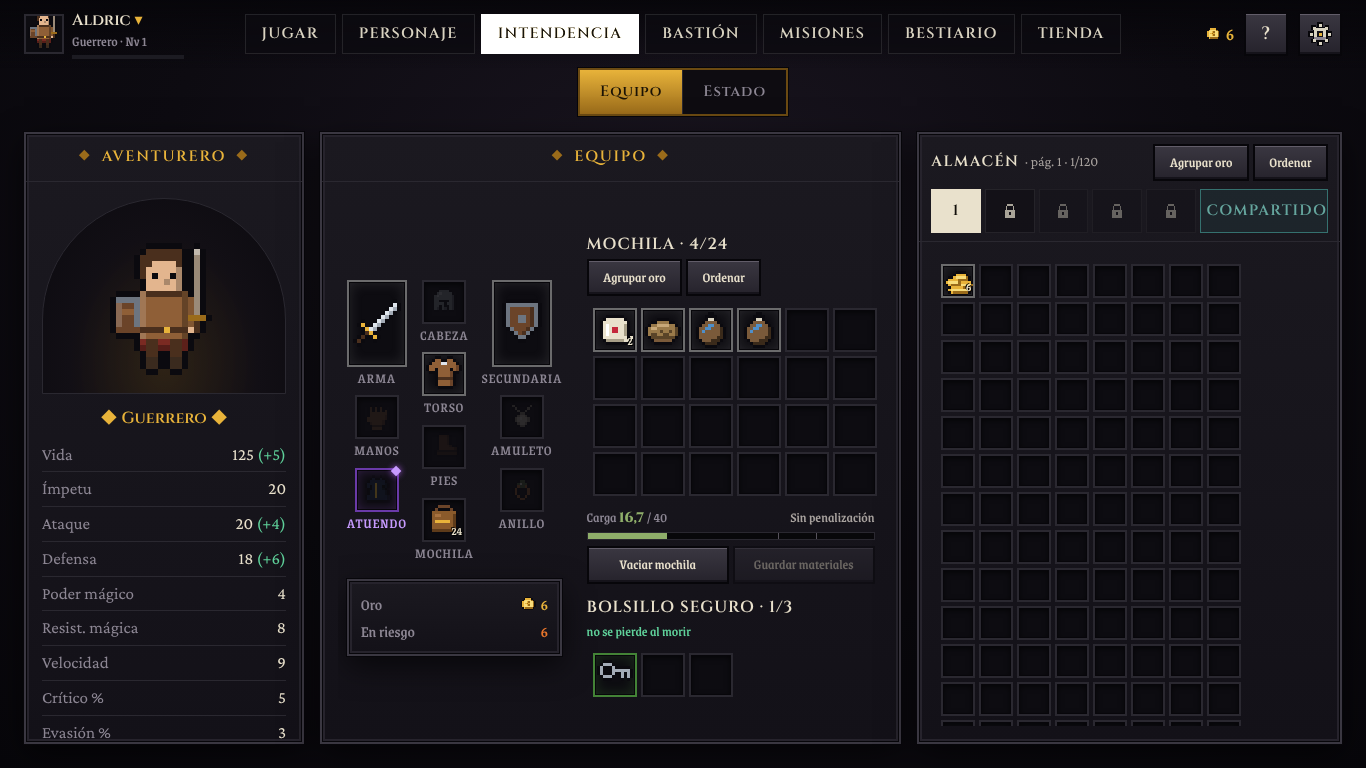
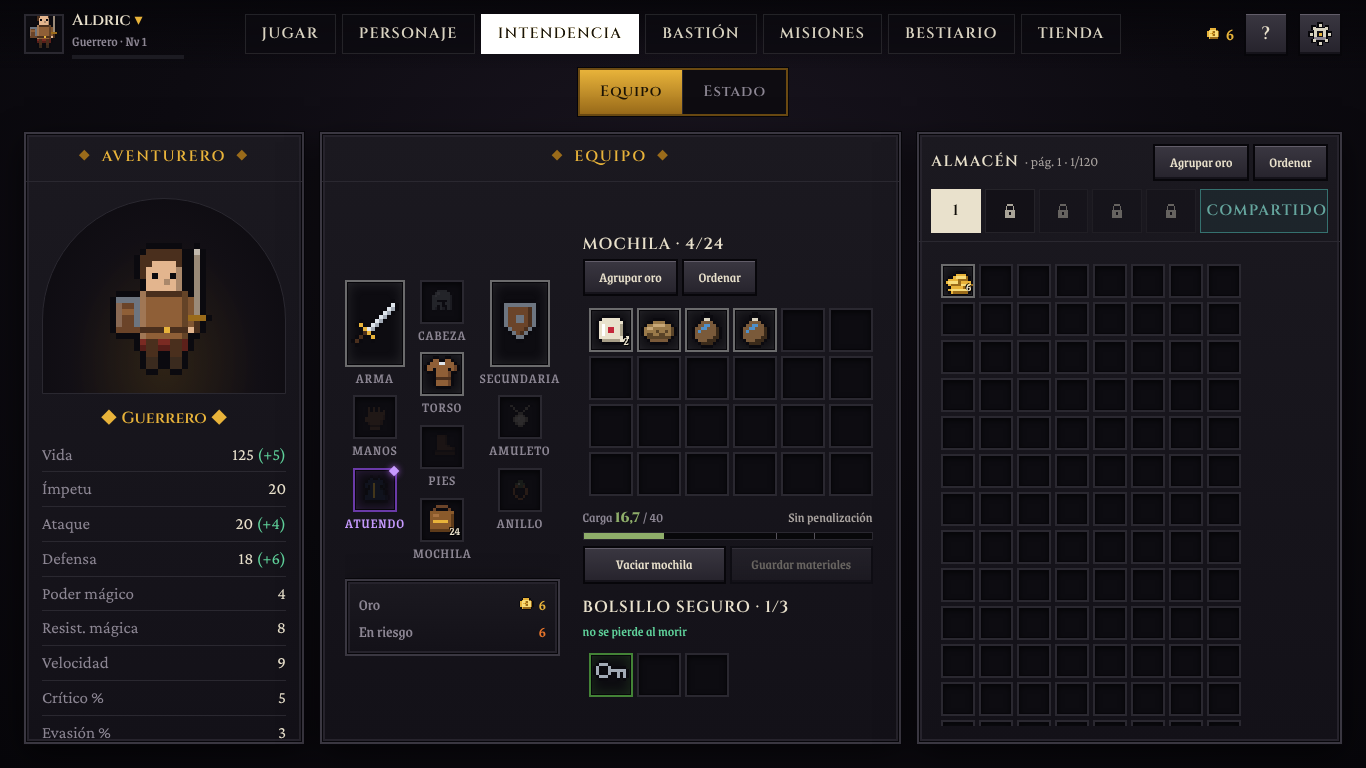
Gravevow (Vesrions 0.9.5.1)

diff --git a/src/game/ui/screens/Alijo.tsx b/src/game/ui/screens/Alijo.tsx
@@ -2,7 +2,7 @@
 // Vista «Estado»: heridas y necesidades con la mochila al lado; curarte con tus objetos sin pagar a Vesper.
 // Mover objetos: arrastrar (ordenador), o tocar un objeto (se abre su ficha) y después tocar una casilla libre.
 // En móvil no caben las tres columnas: segmentos «Equipo», «Almacén» y «Estado».
-import { useState, useCallback, useEffect } from 'react';
+import { useState, useCallback, useEffect, useRef } from 'react';
 import { actions, useGame } from '../../state/store';
 import { CLASSES } from '../../../core/data/classes';
 import { computeStats, baseStats } from '../../../core/stats';
@@ -46,6 +46,16 @@ export function Alijo({ onDetails, onShop }: { onDetails: () => void; onShop?: (
   const [view, setView] = useState<'gear' | 'storage' | 'status'>('gear');
   useEffect(() => { if (view === 'status') actions.tutorialEvent('stash:status'); }, [view]);
   const [picker, setPicker] = useState(false);
+  // Escritorio estrecho (p. ej. 1366 × 768): Aventurero más estrecho y casillas del panel Equipo a 44 px para que quepan las dos columnas
+  const compact = layout === 'desktop' && typeof window !== 'undefined' && window.innerWidth < 1600;
+  // Dos columnas en el panel Equipo cuando hay sitio (escritorio): equipo | mochila y bolsillo
+  const eqRef = useRef<HTMLDivElement | null>(null);
+  const [eqW, setEqW] = useState(0);
+  useEffect(() => {
+    const el = eqRef.current; if (!el || typeof ResizeObserver === 'undefined') return;
+    const ro = new ResizeObserver(([e]) => setEqW(e.contentRect.width)); ro.observe(el); return () => ro.disconnect();
+  }, [view]);
+  const twoCols = layout === 'desktop' && eqW >= (compact ? 470 : 600);
   const clear = () => setSel(null);
   const same = (a: Loc | null, b: Loc) => !!a && JSON.stringify(a) === JSON.stringify(b);
 
@@ -87,7 +97,7 @@ export function Alijo({ onDetails, onShop }: { onDetails: () => void; onShop?: (
   );
 
   const equipment = (
-    <EquipmentGrid sel={sel} onSelect={onSelect} onEmpty={onEmpty} onDone={clear} onSkin={() => setPicker(true)} />
+    <EquipmentGrid sel={sel} onSelect={onSelect} onEmpty={onEmpty} onDone={clear} onSkin={() => setPicker(true)} tight={compact} />
   );
   const pickerModal = <>{picker && <SkinPicker onClose={() => setPicker(false)} onShop={onShop} />}{emptyModal}</>;
   const backpack = (
@@ -159,7 +169,13 @@ export function Alijo({ onDetails, onShop }: { onDetails: () => void; onShop?: (
     );
   }
 
-  const side = layout === 'tablet' ? 288 : 340;
+  const side = layout === 'tablet' ? 288 : compact ? 280 : 340;
+  const goldBox = (
+    <div className="panel p-3 mt-4 flex flex-col gap-1 text-sm" data-testid="gold-box">
+      <div className="flex justify-between items-center"><span className="text-stone-300">Oro</span><GoldAmount value={profile.gold} /></div>
+      <div className="flex justify-between"><span className="text-stone-300">En riesgo</span><span className="text-ember">{gridValue(profile.backpack) + equippedValue(profile.equipment)}</span></div>
+    </div>
+  );
   const deskSeg = <div className="flex justify-center shrink-0">{seg([{ id: 'gear', label: 'Equipo' }, { id: 'status', label: 'Estado' }])}</div>;
   const padX = { padding: '0 max(var(--pad), env(safe-area-inset-right)) var(--pad) max(var(--pad), env(safe-area-inset-left))', gap: 'var(--gap)' } as const;
   if (view !== 'gear') {
@@ -184,24 +200,26 @@ export function Alijo({ onDetails, onShop }: { onDetails: () => void; onShop?: (
         <HeroColumn onDetails={onDetails} />
       </Panel>
       <Panel title="Equipo" className="min-h-0" bodyClassName="min-h-0 flex flex-col">
-        <div className="flex-1 min-h-0 overflow-y-auto scroll-thin">
-          <div className="mb-3"><RecruitOffer /></div>
-          <div className="w-fit mx-auto">
-            <div className="flex justify-center mb-4">{equipment}</div>
-            {backpack}
-            {pocket}
-          </div>
-        </div>
-        {/* En tableta, la ficha solo aparece al elegir un objeto: así cabe la mochila y el bolsillo */}
-        {(sel || layout === 'desktop') && <div className="flex mt-3 shrink-0" style={{ gap: 'var(--gap)' }}>
-          <div className="panel p-3 flex-1 min-w-0">{card}</div>
-          {layout === 'desktop' && (
-            <div className="panel p-3 w-44 shrink-0 flex flex-col justify-center gap-1 text-sm">
-              <div className="flex justify-between items-center"><span className="text-stone-300">Oro</span><GoldAmount value={profile.gold} /></div>
-              <div className="flex justify-between"><span className="text-stone-300">En riesgo</span><span className="text-ember">{gridValue(profile.backpack) + equippedValue(profile.equipment)}</span></div>
+        <div ref={eqRef} style={twoCols ? (compact ? { ['--slot' as string]: '44px', ['--slot-big' as string]: '60px' } : { ['--slot' as string]: '60px', ['--slot-big' as string]: '84px' }) : layout === 'tablet' ? { ['--slot' as string]: '46px' } : undefined} className={`flex-1 min-h-0 ${twoCols ? 'flex flex-col overflow-hidden' : 'overflow-y-auto scroll-thin'}`} data-testid="equip-body" data-cols={twoCols ? 2 : 1}>
+          <div className="mb-3 shrink-0"><RecruitOffer /></div>
+          {twoCols ? (
+            // Escritorio ancho: equipo a la izquierda, mochila + bolsillo + oro a la derecha (sin desplazar)
+            <div className="flex-1 min-h-0 grid" style={{ gridTemplateColumns: 'auto auto', gridTemplateRows: 'minmax(0,1fr)', justifyContent: 'space-evenly', gap: 'var(--gap)' }} data-testid="equip-two-cols">
+              <div className="flex flex-col items-stretch self-center max-h-full overflow-y-auto scroll-thin">{equipment}{goldBox}</div>
+              {/* Si la mochila crece (más de 24 casillas) o la ficha quita alto, solo esta columna se desplaza */}
+              <div className="min-h-0 max-h-full self-center overflow-y-auto scroll-thin pr-1" style={{ width: 'calc(var(--slot) * 6 + 30px)' }} data-testid="equip-bag-col">{backpack}{pocket}</div>
+            </div>
+          ) : (
+            <div className="w-fit mx-auto">
+              <div className="flex justify-center mb-4">{equipment}</div>
+              {backpack}
+              {pocket}
+              {layout === 'desktop' && goldBox}
             </div>
           )}
-        </div>}
+        </div>
+        {/* La ficha solo aparece al elegir un objeto (la ayuda de uso ya la enseñan el tutorial, la Intendencia y la Guía) */}
+        {sel && <div className="panel p-3 mt-3 shrink-0" data-testid="item-card-wrap">{card}</div>}
       </Panel>
       {storage}
       {pickerModal}
@@ -211,7 +229,7 @@ export function Alijo({ onDetails, onShop }: { onDetails: () => void; onShop?: (
 }
 
 /** Equipamiento en tres columnas: arma (grande) y manos · cabeza, torso y pies · secundaria (grande), amuleto y anillo. */
-function EquipmentGrid({ sel, onSelect, onEmpty, onDone, onSkin }: { sel: Loc | null; onSelect: (l: Loc) => void; onEmpty: (l: Loc) => void; onDone: () => void; onSkin: () => void }) {
+function EquipmentGrid({ sel, onSelect, onEmpty, onDone, onSkin, tight = false }: { sel: Loc | null; onSelect: (l: Loc) => void; onEmpty: (l: Loc) => void; onDone: () => void; onSkin: () => void; tight?: boolean }) {
   const eq = useGame((s) => s.profile!.equipment);
   const prof = useGame((s) => s.profile!);
   // Objeto elegido en la mochila o el almacén (para iluminar la ranura de equipo donde encaja)
@@ -225,7 +243,7 @@ function EquipmentGrid({ sel, onSelect, onEmpty, onDone, onSkin }: { sel: Loc | 
     </div>
   );
   return (
-    <div className="flex items-start gap-6" data-testid="equipment">
+    <div className={`flex items-start ${tight ? 'gap-2' : 'gap-6'}`} data-testid="equipment">
       <div className="flex flex-col items-center gap-2">{slot('mainHand', true)}{slot('gloves')}<SkinSlot onClick={onSkin} /></div>
       <div className="flex flex-col items-center gap-2">{slot('helmet')}{slot('armor')}{slot('boots')}<BagSlot sel={sel} onDone={onDone} /></div>
       <div className="flex flex-col items-center gap-2">{slot('offHand', true)}{slot('amulet')}{slot('ring')}</div>

diff --git a/src/core/data/tutorials.ts b/src/core/data/tutorials.ts
@@ -71,7 +71,7 @@ export const MINI_TUTORIALS: MiniTutorial[] = [
     steps: [
       { text: 'Bienvenido al **Bastión de Ceniza**. Soy el intendente: aquí arriba lo tienes todo, en estas pestañas.', target: 'lobby-nav' },
       { text: 'Empecemos por tu **Intendencia**: tu equipo, tu mochila y el almacén. Haz clic en la pestaña.', touch: 'Empecemos por tu **Intendencia**: tu equipo, tu mochila y el almacén. Toca la pestaña.', target: 'tab-stash', action: 'click' },
-      { text: 'Lo que traes de abajo va en la **mochila**, y la mochila **se pierde si mueres**. El oro también **ocupa sitio**: las monedas sueltas llenan casillas.', target: 'alijo-backpack' },
+      { text: 'Lo que traes de abajo va en la **mochila**, y la mochila **se pierde si mueres**. El oro también **ocupa sitio**: las monedas sueltas llenan casillas. Elige un objeto para ver su ficha; arrástralo para moverlo y haz **doble clic** para la acción rápida.', touch: 'Lo que traes de abajo va en la **mochila**, y la mochila **se pierde si mueres**. El oro también **ocupa sitio**: las monedas sueltas llenan casillas. Toca un objeto para ver su ficha y luego una casilla libre para moverlo; **dos toques**, acción rápida.', target: 'alijo-backpack' },
       { text: 'Los **saquitos** y **sacos** que vende Nira guardan muchas monedas en una sola casilla. Pulsa **«Agrupar oro»**.', touch: 'Los **saquitos** y **sacos** que vende Nira guardan muchas monedas en una sola casilla. Toca **«Agrupar oro»**.', target: 'group-gold-backpack', action: 'click' },
       { text: 'Este es tu **bolsillo seguro**: lo que guardes ahí **no se pierde al morir**. Caben cosas pequeñas, como llaves o saquitos. Arrastra ahí lo más valioso antes de bajar.', touch: 'Este es tu **bolsillo seguro**: lo que guardes ahí **no se pierde al morir**. Caben llaves o saquitos: toca uno y luego una casilla del bolsillo.', target: 'alijo-pocket' },
       { text: 'Pulsa **«Vaciar mochila»**: todo lo que llevas pasa al almacén, donde está a salvo.', touch: 'Toca **«Vaciar mochila»**: todo lo que llevas pasa al almacén, donde está a salvo.', target: 'empty-backpack', action: 'click' },

diff --git a/src/game/ui/kit/Panel.tsx b/src/game/ui/kit/Panel.tsx
@@ -20,7 +20,7 @@ export function Panel({ title, right, children, className = '', bodyClassName = 
 /** Encabezado pequeño dentro de un panel («Mochila · 11/24», «Bolsillo seguro»…). */
 export function SubHead({ children, right }: { children: ReactNode; right?: ReactNode }) {
   return (
-    <div className="flex items-center justify-between gap-2 mb-1.5 min-h-[32px]">
+    <div className="flex flex-wrap items-center justify-between gap-x-2 gap-y-1 mb-1.5 min-h-[32px]">
       <h3 className="font-display text-[13px] tracking-[0.06em] uppercase text-parchment">{children}</h3>
       {right}
     </div>

diff --git a/ESTADO_PROYECTO.md b/ESTADO_PROYECTO.md
@@ -76,6 +76,7 @@
 - **Tráileres antiguos:** se borraron de `public/`, pero siguen en el historial de git.
 
 ## Últimos cambios
+- 12/11: **Intendencia › Equipo en dos columnas (escritorio).** Equipo y Oro/En riesgo a la izquierda; Mochila y Bolsillo seguro a la derecha; sin desplazar a 1920 × 1080 ni a 1366 × 768 (casillas a 60 px o a 44 px y Aventurero a 280 px en pantallas estrechas). Fuera la barra de ayuda; la ficha sale solo al elegir. Tableta: una columna con casillas a 46 px. `arrastre-check` falla en escritorio también sin este cambio (casilla `slot-backpack-7` que no existe): pendiente.
 - 12/11: **Comer y beber desde el objeto.** Fuera los botones «Comer…» y «Beber…» de las necesidades (mazmorra, combate e Intendencia). Se elige el alimento y «Comer»/«Beber» (en el Bastión, mochila o almacén; abajo, solo mochila), o doble toque; en combate, por la Mochila de la barra. La ficha dice lo que aporta y lo que se desperdiciaría; la barra se rellena con animación; con la barra baja, «Tienes comida en la mochila» resalta esos objetos. Tutorial (paso de comer), `exp.need-low` y `station.kitchen` actualizados. Arreglado de paso `inventario-check` (el Esc abría Ajustes).
 - 12/11: **Jugar con menos texto.** Fuera de la vista fija: «Niveles X–Y · mapa nuevo cada vez», pociones y oro en riesgo, «N minutos para encontrar el portal…», la etiqueta «Demasiado fácil» sobre el arte (queda la nota con los porcentajes), la palabra «Nivel» bajo el anillo y el cartel «Tu primera bajada». La información pasa a fichas al pasar el ratón o mantener pulsado (zona y Expedición) y al tutorial (paso del portal) y a la bienvenida (último paso). Prueba: `scripts/jugar-ficha-check.cjs`.
 - 12/11: **Bastión en reconstrucción.** «Refugio» pasa a llamarse «Bastión» en todos los textos visibles (ids internos sin cambios). Entrada «Entrada del Bastión» con tarjetas Mercaderes y Bastión (castillo en ruinas provisional); pantalla «El Bastión»; vuelta con «◂ Entrada» y «◂ Volver». Estaciones en ruinas con «Reconstruir» y arte con cascotes; reconstruidas con un solo «Usar» y «▲ Mejorar» dentro (también Catre y atril). Sin «Pedir a…» ni «Detalles»: tocar la tarjeta abre el detalle (en ruinas) o la usa. Frases de reconstrucción de los encargados, «Ir al Bastión» en los servicios de los mercaderes con la estación en ruinas, platos en la Cocina al usarla. Maquetas en `mockups/bastion-reconstruir`; assets en `docs/ASSETS.md`.

diff --git a/docs/guia-interfaz.md b/docs/guia-interfaz.md
@@ -176,3 +176,14 @@ Todo está en un sitio: `src/config/ui.ts` (para el código) y el bloque «Base 
 - Si una barra está baja y llevas con qué, la caja enseña «Tienes comida en la mochila» (`need-food-<need>`, 44 px en táctil): resalta esos objetos (`highlightItems`, clase `.slot-hint`); en la mazmorra abre antes la mochila y en Intendencia pasa a Equipo si la mochila no se ve. En combate es solo texto.
 - Prueba: `node scripts/necesidades-check.cjs <url>/play/ <carpeta> [dispositivo]`.
 
+## Intendencia › Equipo en dos columnas (12/11)
+- Escritorio (`Alijo.tsx`): el panel Equipo pasa a dos columnas cuando mide 600 px o más (470 px en escritorio estrecho, por debajo de 1600 px de ancho):
+  izquierda, las ranuras alrededor del personaje y debajo la caja Oro / En riesgo (`gold-box`); derecha (`equip-bag-col`), la Mochila
+  (título, contador, Agrupar oro, Ordenar, cuadrícula, carga, Vaciar y Guardar materiales) y el Bolsillo seguro (3 casillas, contador,
+  «no se pierde al morir» u «oro a salvo»). El panel no se desplaza; si la mochila crece (más de 24 casillas) o la ficha quita alto,
+  solo se desplaza esa columna.
+- Casillas del panel: a 60 px (armas 84) en escritorio ancho; en escritorio estrecho, 44 px (armas 60) y el Aventurero baja a 280 px.
+- Sin barra de ayuda («Elige un objeto…»): la ficha del objeto (`item-card-wrap`) solo sale al elegir uno. La ayuda va en la bienvenida (paso de la mochila) y en la Guía.
+- Tableta: una columna, como antes, con casillas a 46 px para que la mochila no se corte. Móvil: sin cambios (vistas separadas).
+- Maquetas y capturas: `mockups/intendencia/index.html` (`node mockups/intendencia/capturar.cjs <url>/play/`).
+

diff --git a/docs/estado-trabajo.md b/docs/estado-trabajo.md
@@ -539,3 +539,12 @@ Equipo si la mochila no se ve. CombatScreen.tsx: comida y bebida en la Mochila d
 mochila. tutorial.ts (paso eat: mochila → pan → Comer), tutorials.ts (exp.need-low, station.kitchen). Pruebas: necesidades-check,
 e2e-tutorial y curas-check adaptados; inventario-check arreglado (Esc abría Ajustes). Pasan también anatomia-check y grupos-check.
 
+## 12/11 · Intendencia › Equipo en dos columnas
+Alijo.tsx: el panel Equipo mide su ancho (ResizeObserver) y en escritorio pasa a dos columnas (equipo + Oro/En riesgo | mochila +
+bolsillo; `equip-two-cols`, `equip-bag-col`, `gold-box`), con casillas a 60/84 px (o 44/60 px y Aventurero a 280 px por debajo de
+1600 px de ancho). Sin barra de ayuda: la ficha (`item-card-wrap`) solo al elegir. Tableta: una columna con casillas a 46 px.
+`EquipmentGrid` admite `tight`. kit/Panel.tsx: `SubHead` puede partir en dos líneas. tutorials.ts: el paso de la mochila de la
+bienvenida explica ficha, arrastrar y doble clic (antes iba en la barra). Capturas: mockups/intendencia (1920 × 1080, 1366 × 768,
+1180 × 820). Pruebas: objetos-check, inventario-check, e2e-bienvenida (3 tamaños), almacen-check, necesidades-check, menus-check.
+`arrastre-check` ya fallaba antes en escritorio (slot-backpack-7): pendiente.
+
